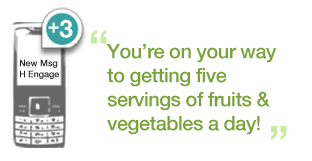
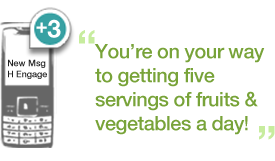
tweaaaaaaaaks

diff --git a/public/stylesheets/new-marketing.css b/public/stylesheets/new-marketing.css
@@ -178,13 +178,16 @@ body {
         height: 20px;
         margin-bottom: 5px; }
   #double-column .main-section {
+    -webkit-box-shadow: 1px 1px 6px 2px #8b8b8b;
+    -moz-box-shadow: 1px 1px 6px 2px #8b8b8b;
+    box-shadow: 1px 1px 6px 2px #8b8b8b;
     float: right;
-    width: 540px;
+    width: 510px;
     min-height: 418px;
     padding-top: 25px;
     padding-left: 76px;
-    padding-bottom: 65px;
-    padding-right: 25px;
+    padding-bottom: 35px;
+    padding-right: 55px;
     color: #2d2d2b;
     font-size: 16px;
     background-color: white;
@@ -193,7 +196,8 @@ body {
     #double-column .main-section img.banner {
       position: relative;
       left: -79px;
-      margin-bottom: 30px; }
+      margin-top: 15px;
+      margin-bottom: 13px; }
     #double-column .main-section .point {
       font-size: 20px;
       color: #38a1a3; }
@@ -205,7 +209,7 @@ body {
       font-weight: bold; }
     #double-column .main-section .subcolumns .left {
       float: left;
-      width: 260px; }
+      width: 220px; }
       #double-column .main-section .subcolumns .left ol {
         margin-top: 0; }
         #double-column .main-section .subcolumns .left ol li {
@@ -220,12 +224,16 @@ body {
       padding-right: 45px; }
     #double-column .main-section .subcolumns-separator {
       clear: both;
-      height: 30px; }
+      height: 14px; }
     #double-column .main-section .blog-section {
       margin-bottom: 60px;
       padding-right: 30px; }
+      #double-column .main-section .blog-section #blog-name {
+        margin-bottom: 0;
+        font-weight: bold; }
       #double-column .main-section .blog-section .post {
-        margin-bottom: 50px; }
+        margin-top: 20px;
+        margin-bottom: 20px; }
         #double-column .main-section .blog-section .post .title {
           margin-bottom: 5px; }
           #double-column .main-section .blog-section .post .title a {
@@ -238,8 +246,7 @@ body {
   #double-column .shim {
     clear: both;
     width: 676px;
-    background-image: url(/images/new_marketing/b_double_dropshadow.png);
-    height: 1px;
+    height: 85px;
     margin-left: 244px; }
 
 #marketing-footer-wrapper {
@@ -259,7 +266,7 @@ body {
       vertical-align: top;
       font-size: 12px; }
   #marketing-footer #about-us {
-    width: 540px;
+    width: 510px;
     float: right;
     padding-top: 20px;
     padding-bottom: 20px; }

diff --git a/public/stylesheets/sass/new-marketing.scss b/public/stylesheets/sass/new-marketing.scss
@@ -28,7 +28,7 @@ $single-column-right-padding: 30px;
 
 $content-width: 900px;
 $sidebar-width: 230px;
-$main-section-width: 540px;
+$main-section-width: 510px;
 
 body {
   font-family: 'Helvetica Neue', Helvetica, Arial, sans-serif;
@@ -281,13 +281,14 @@ body {
   }
 
   .main-section {
+    @include box-shadow(1px, 1px, 6px, 2px, #8b8b8b);
     float: right;
     width: $main-section-width;
     min-height: 418px;
     padding-top: 25px;
     padding-left: 76px;
-    padding-bottom: 65px;
-    padding-right: 25px;
+    padding-bottom: 35px;
+    padding-right: 55px;
     color: $dark-gray;
     font-size: 16px;
     background-color: white;
@@ -297,7 +298,8 @@ body {
     img.banner {
       position: relative;
       left: -79px;
-      margin-bottom: 30px;
+      margin-top: 15px;
+      margin-bottom: 13px;
     }
 
     .point {
@@ -320,7 +322,7 @@ body {
     .subcolumns {
       .left {
         float: left;
-        width: 260px;
+        width: 220px;
 
         ol {
           margin-top: 0;
@@ -347,15 +349,21 @@ body {
 
     .subcolumns-separator {
       clear: both;
-      height: 30px;
+      height: 14px;
     }
 
     .blog-section {
       margin-bottom: 60px;
       padding-right: $single-column-right-padding;
 
+      #blog-name {
+        margin-bottom: 0;
+        font-weight: bold;
+      }
+
       .post {
-        margin-bottom: 50px;
+        margin-top: 20px;
+        margin-bottom: 20px;
 
         .title {
           margin-bottom: 5px;
@@ -382,8 +390,7 @@ body {
   .shim {
     clear: both;
     width: 676px;
-    background-image: url(/images/new_marketing/b_double_dropshadow.png);
-    height: 1px;
+    height: 85px;
     margin-left: 244px;
   }
 }
